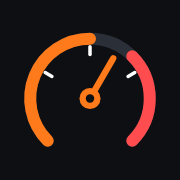
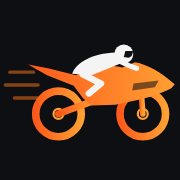
feat: 遊戲改名「揍灰來尬掐」，新的仿賽檔車圖示
- 網頁標題、大廳與各頁標題、主畫面 App 名稱、邀請文字、隱私權政策、README
- App 圖示改為原創仿賽檔車剪影（壓車騎士＋速度線），重新產生各尺寸 PNG

Changed region(s): [[0.0, 0.1667, 0.9722, 0.8333]]

diff --git a/public/privacy.html b/public/privacy.html
@@ -3,7 +3,7 @@
   <head>
     <meta charset="UTF-8" />
     <meta name="viewport" content="width=device-width, initial-scale=1.0" />
-    <title>隱私權政策・機車模擬器</title>
+    <title>隱私權政策・揍灰來尬掐</title>
     <meta name="theme-color" content="#0d0f12" />
     <link rel="icon" href="favicon-32.png" type="image/png" />
     <style>
@@ -81,10 +81,10 @@
   <body>
     <main>
       <h1>隱私權政策</h1>
-      <p class="meta">機車模擬器（Scooter Dyno Simulator）・最後更新：2026 年 11 月 3 日</p>
+      <p class="meta">揍灰來尬掐・最後更新：2026 年 11 月 3 日</p>
 
       <p>
-        機車模擬器是一個免費的網頁遊戲，原始碼公開在
+        揍灰來尬掐是一個免費的機車網頁遊戲，原始碼公開在
         <a href="https://github.com/a1135526-lab/myMotoSimulator">GitHub</a>。
         這份說明告訴你遊戲收集了哪些資料、用在哪裡，以及怎麼刪除。
       </p>

diff --git a/index.html b/index.html
@@ -11,7 +11,7 @@
     <!-- Added to the iPhone home screen: open without Safari's bars. -->
     <meta name="apple-mobile-web-app-capable" content="yes" />
     <meta name="mobile-web-app-capable" content="yes" />
-    <meta name="apple-mobile-web-app-title" content="機車模擬器" />
+    <meta name="apple-mobile-web-app-title" content="揍灰來尬掐" />
     <meta name="apple-mobile-web-app-status-bar-style" content="black-translucent" />
     <link rel="preconnect" href="https://fonts.googleapis.com" />
     <link rel="preconnect" href="https://fonts.gstatic.com" crossorigin />
@@ -19,7 +19,7 @@
       href="https://fonts.googleapis.com/css2?family=Saira+Condensed:wght@500;600;700;800&display=swap"
       rel="stylesheet"
     />
-    <title>Scooter Dyno Simulator</title>
+    <title>揍灰來尬掐</title>
   </head>
   <body>
     <div id="root"></div>

diff --git a/src/ui/race/room/RoomLobby.tsx b/src/ui/race/room/RoomLobby.tsx
@@ -22,7 +22,7 @@ export function RoomLobby() {
   const iAmHost = !!me && host?.id === me.id;
   const circuit = circuits.find((c) => c.id === settings.circuitId);
 
-  const invite = `來機車模擬器跟我比賽！好友對戰的房號：${code ?? ''}\n${window.location.origin}${import.meta.env.BASE_URL}`;
+  const invite = `來揍灰來尬掐跟我比賽！好友對戰的房號：${code ?? ''}\n${window.location.origin}${import.meta.env.BASE_URL}`;
   const copy = async () => {
     try {
       await navigator.clipboard.writeText(invite);

diff --git a/vite.config.ts b/vite.config.ts
@@ -17,8 +17,8 @@ export default defineConfig({
       injectRegister: false,
       includeAssets: ['icon.svg', 'apple-touch-icon.png', 'favicon-32.png'],
       manifest: {
-        name: 'Scooter Dyno Simulator 機車模擬器',
-        short_name: '機車模擬器',
+        name: '揍灰來尬掐',
+        short_name: '揍灰來尬掐',
         description: '機車動力模擬器：馬力機、直線加速、賽道繞圈、楠梓街景。',
         lang: 'zh-Hant-TW',
         start_url: '.',

diff --git a/src/ui/pages/home/HomePage.tsx b/src/ui/pages/home/HomePage.tsx
@@ -93,7 +93,7 @@ export function HomePage() {
       </header>
 
       <main className={styles.main}>
-        <h1 className={styles.title}>機車模擬器</h1>
+        <h1 className={styles.title}>揍灰來尬掐</h1>
         <p className={styles.subtitle}>選一個模式開始</p>
         <div className={styles.grid}>
           {ENTRIES.map((e) => (

diff --git a/src/ui/layouts/AppLayout.tsx b/src/ui/layouts/AppLayout.tsx
@@ -27,7 +27,7 @@ export function AppLayout({ toolbar, children, immersive = false }: AppLayoutPro
           <span className={styles.logo} aria-hidden>
             ◔
           </span>
-          Scooter Dyno Simulator
+          揍灰來尬掐
         </h1>
         <div className={styles.toolbar}>
           {toolbar}

diff --git a/CLAUDE.md b/CLAUDE.md
@@ -1,6 +1,6 @@
 # CLAUDE.md
 
-機車動力模擬器（React 18 + Vite + TypeScript strict + Three.js）。四種模式：模擬器（馬力機）、直線加速賽、賽道繞圈、街景模式（真實高雄楠梓地圖）。使用者文件、文案、commit 內容都用**繁體中文**；程式碼識別字和註解用英文。
+遊戲名稱「揍灰來尬掐」：機車動力模擬器（React 18 + Vite + TypeScript strict + Three.js）。四種模式：模擬器（馬力機）、直線加速賽、賽道繞圈、街景模式（真實高雄楠梓地圖）。使用者文件、文案、commit 內容都用**繁體中文**；程式碼識別字和註解用英文。
 
 ## 常用指令
 

diff --git a/README.md b/README.md
@@ -1,4 +1,4 @@
-# Scooter Dyno Simulator
+# 揍灰來尬掐
 
 > 🎮 **直接玩：<https://a1135526-lab.github.io/myMotoSimulator/>**（電腦、手機都可以，不用安裝）
 >
